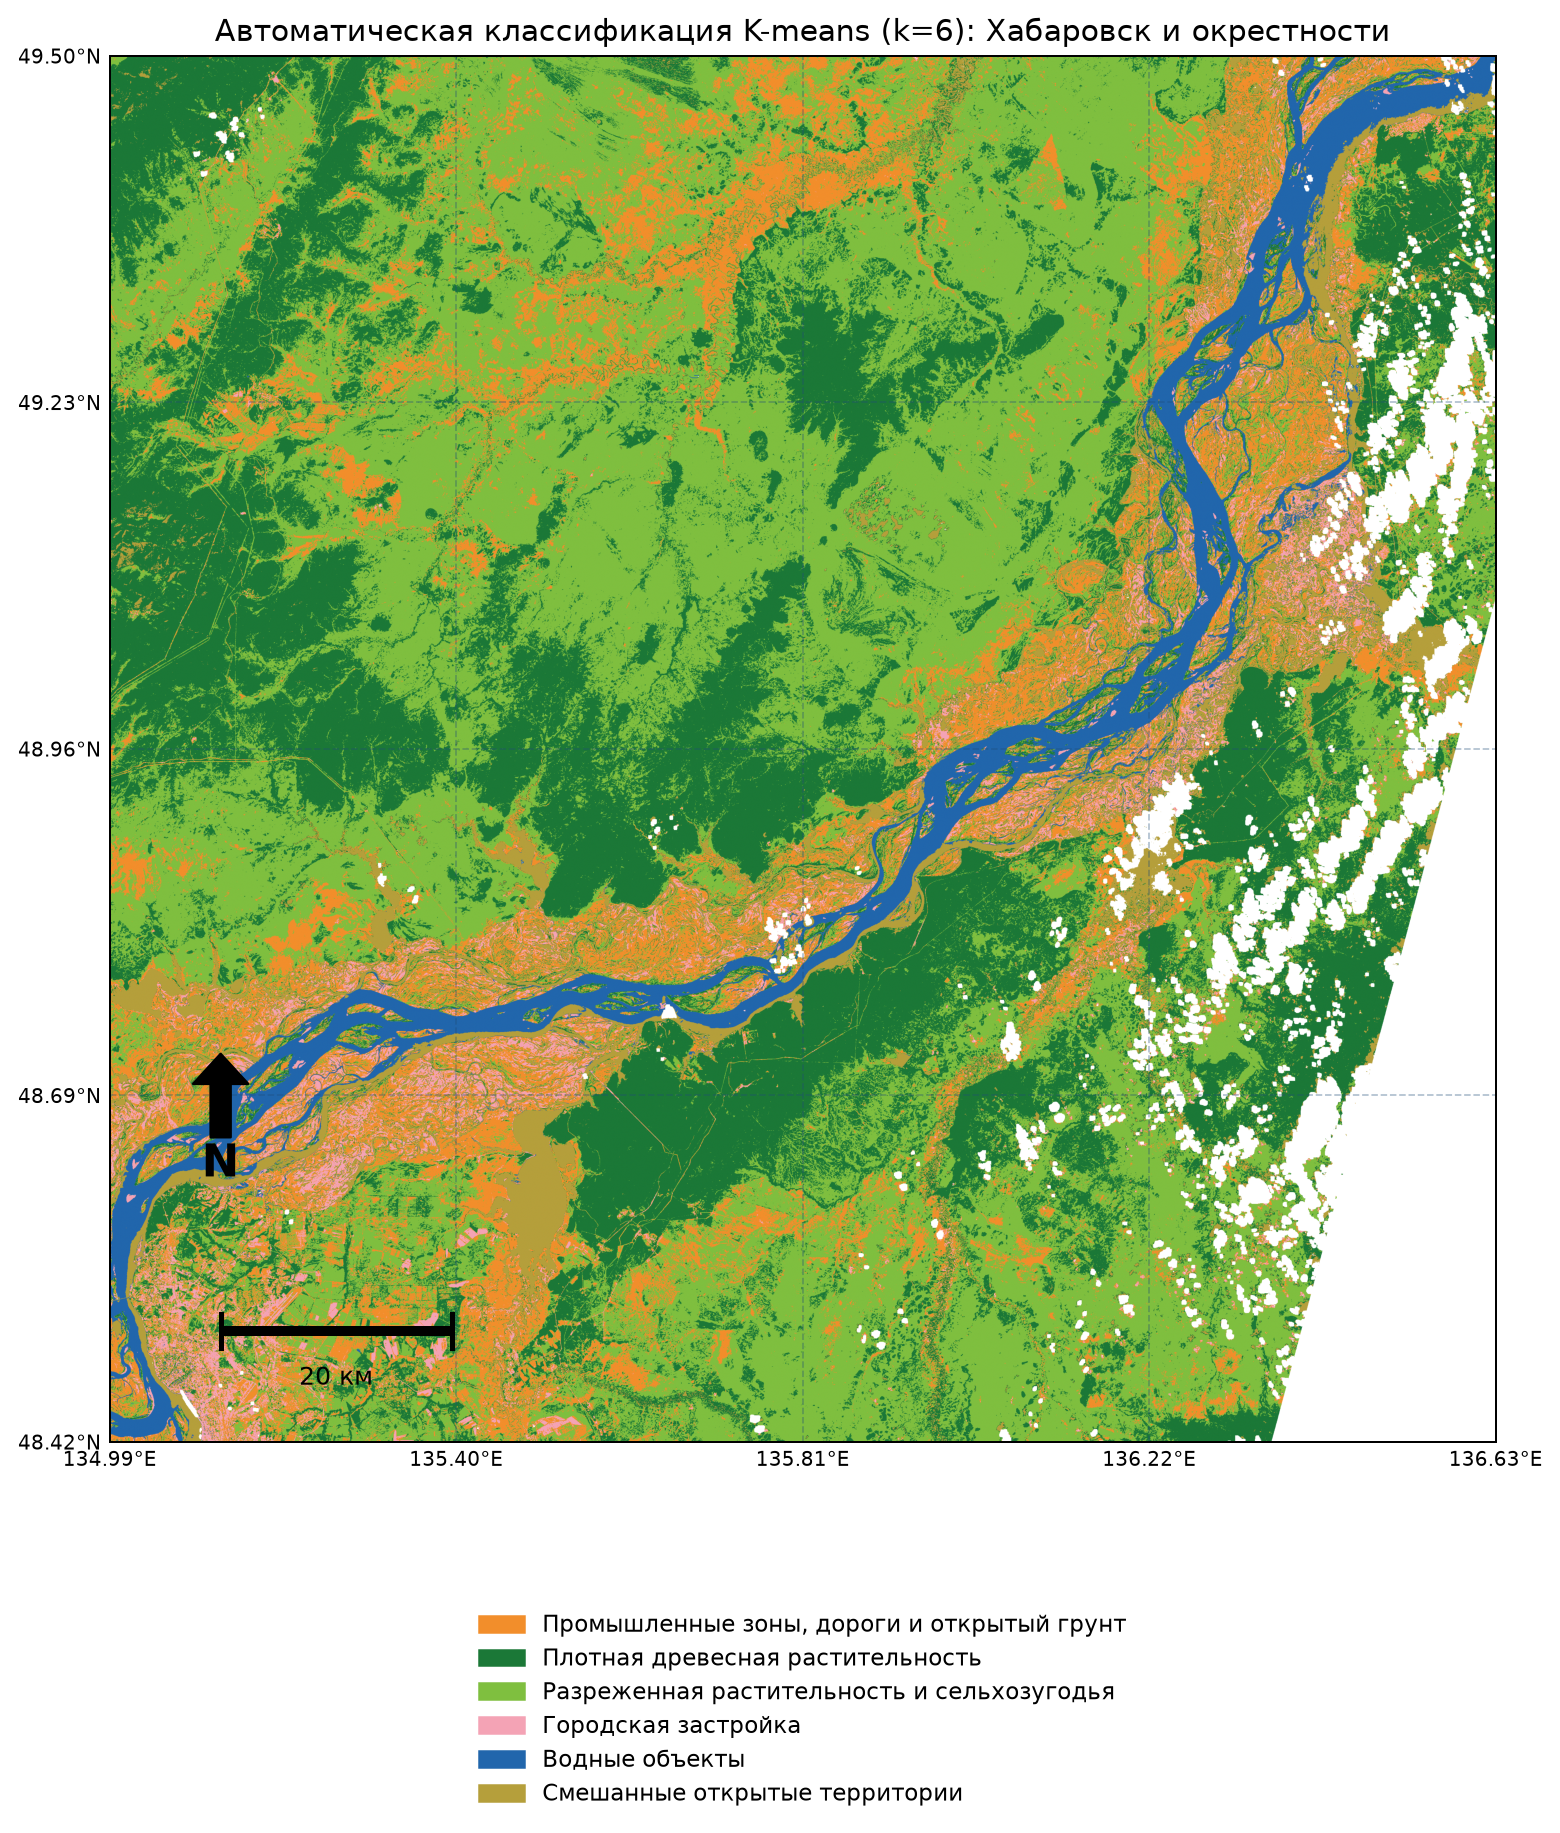
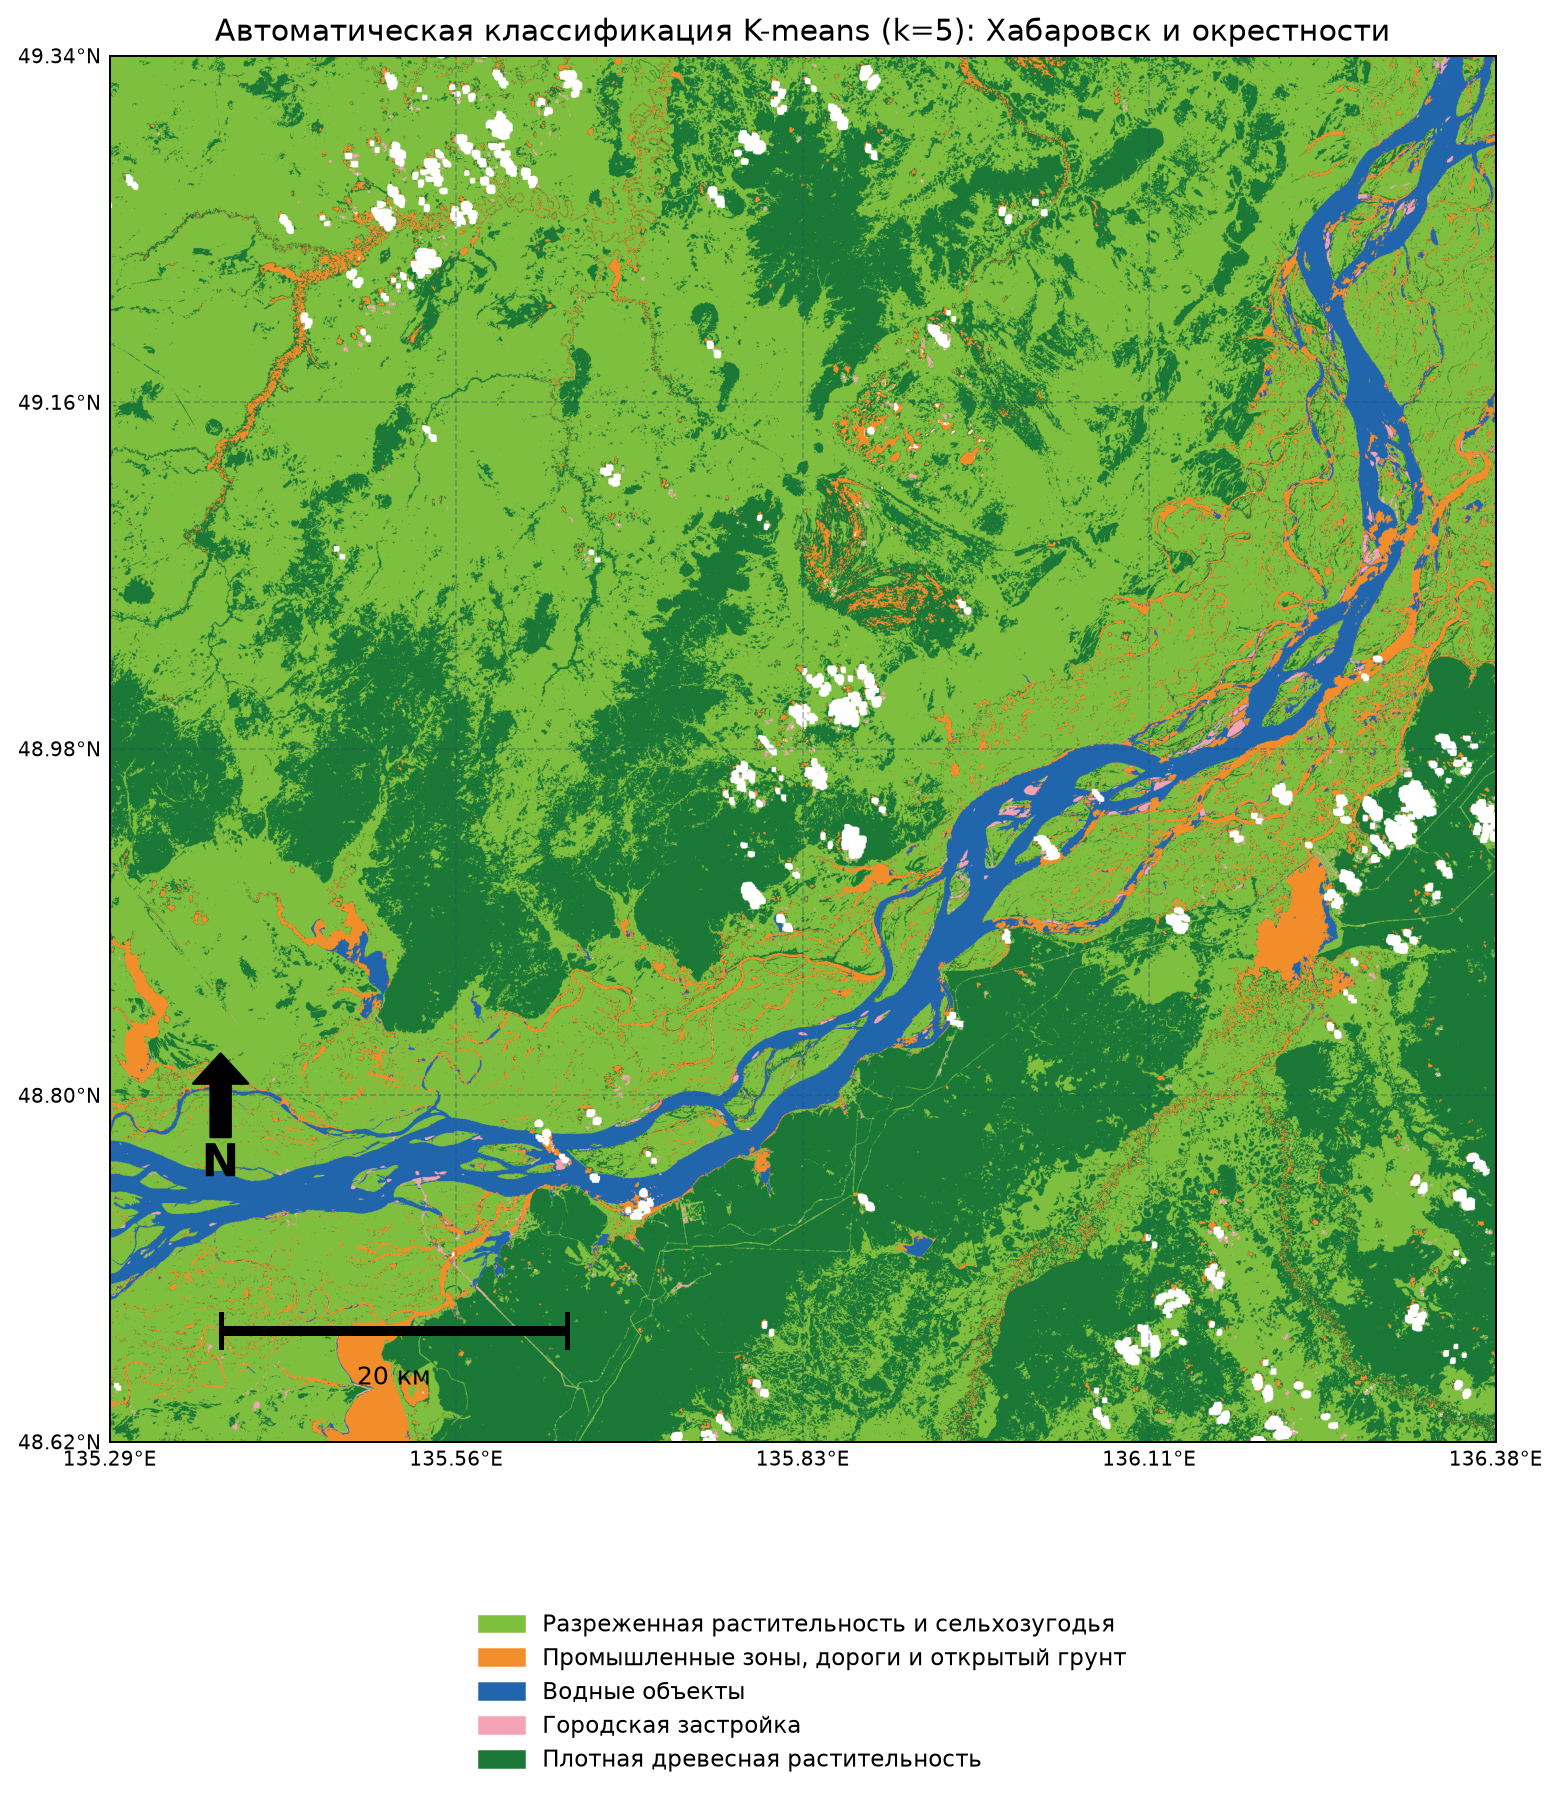
Switch to cleaner Khabarovsk Landsat scene

diff --git a/src/landsat_kmeans_khabarovsk.py b/src/landsat_kmeans_khabarovsk.py
@@ -24,11 +24,11 @@ PROCESSED = ROOT / "data" / "processed"
 OUTPUTS = ROOT / "outputs"
 ASSETS = ROOT / "assets"
 
-SCENE_ID = "LC09_L2SP_113026_20240917_20240918_02_T1"
+SCENE_ID = "LC08_L2SP_113026_20250710_20250715_02_T1"
 KHABAROVSK_LON = 135.0719
 KHABAROVSK_LAT = 48.4802
-CLIP_SIZE_M = 120_000
-N_CLUSTERS = 6
+CLIP_SIZE_M = 80_000
+N_CLUSTERS = 5
 RANDOM_STATE = 42
 TRAIN_SAMPLE = 250_000
 SILHOUETTE_SAMPLE = 50_000
@@ -331,7 +331,7 @@ def plot_outputs(stack: np.ndarray, valid: np.ndarray, classified: np.ndarray, p
 
     fig, ax = plt.subplots(figsize=(9, 11), dpi=180)
     ax.imshow(display, cmap=ListedColormap(colors), vmin=0, vmax=N_CLUSTERS - 1, extent=extent)
-    ax.set_title("Автоматическая классификация K-means (k=6): Хабаровск и окрестности", fontsize=12)
+    ax.set_title(f"Автоматическая классификация K-means (k={N_CLUSTERS}): Хабаровск и окрестности", fontsize=12)
     add_geo_grid(ax, extent, profile["crs"])
     add_scale_bar(ax, extent)
     add_north_arrow(ax, extent)

diff --git a/README.md b/README.md
@@ -4,12 +4,12 @@
 
 ## Данные
 
-- Сцена: `LC09_L2SP_113026_20240917_20240918_02_T1`
-- Спутник: Landsat 9 OLI/TIRS
-- Дата съемки: 2024-09-17
+- Сцена: `LC08_L2SP_113026_20250710_20250715_02_T1`
+- Спутник: Landsat 8 OLI/TIRS
+- Дата съемки: 2025-07-10
 - Территория: Хабаровск и окрестности
 - Path / Row: 113 / 026
-- Облачность: 0.75%
+- Облачность: 1.44%
 - Система координат: WGS 84 / UTM Zone 53N (`EPSG:32653`)
 - Использованные каналы: `SR_B2`, `SR_B3`, `SR_B4`, `SR_B5`, `SR_B6`, `SR_B7`
 